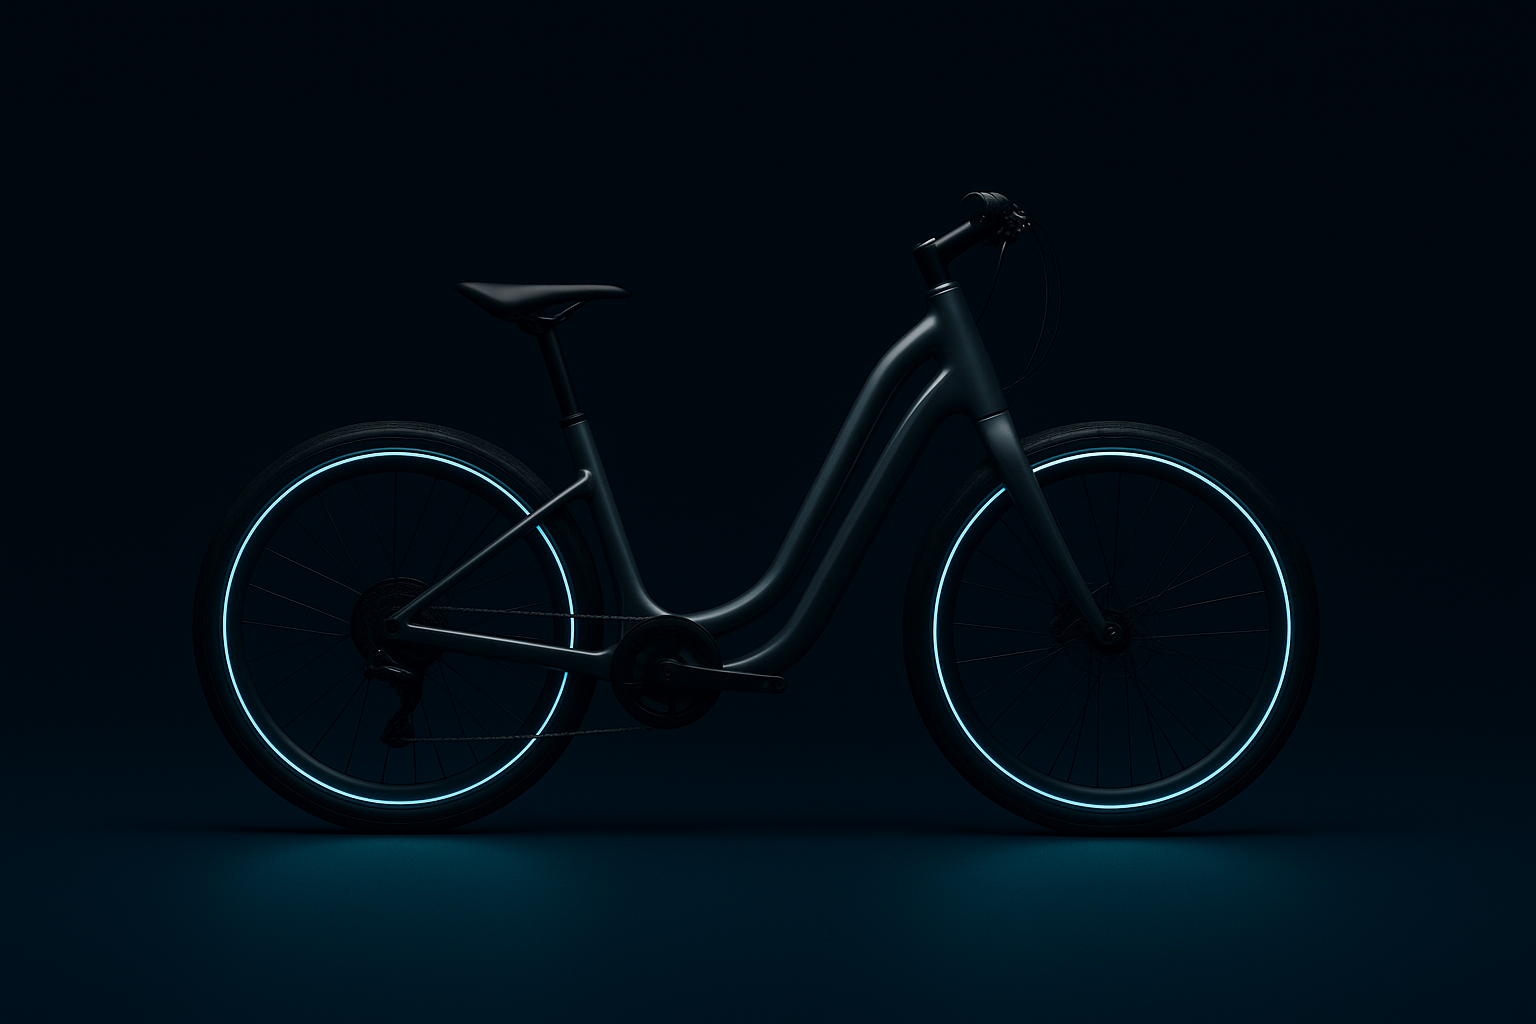
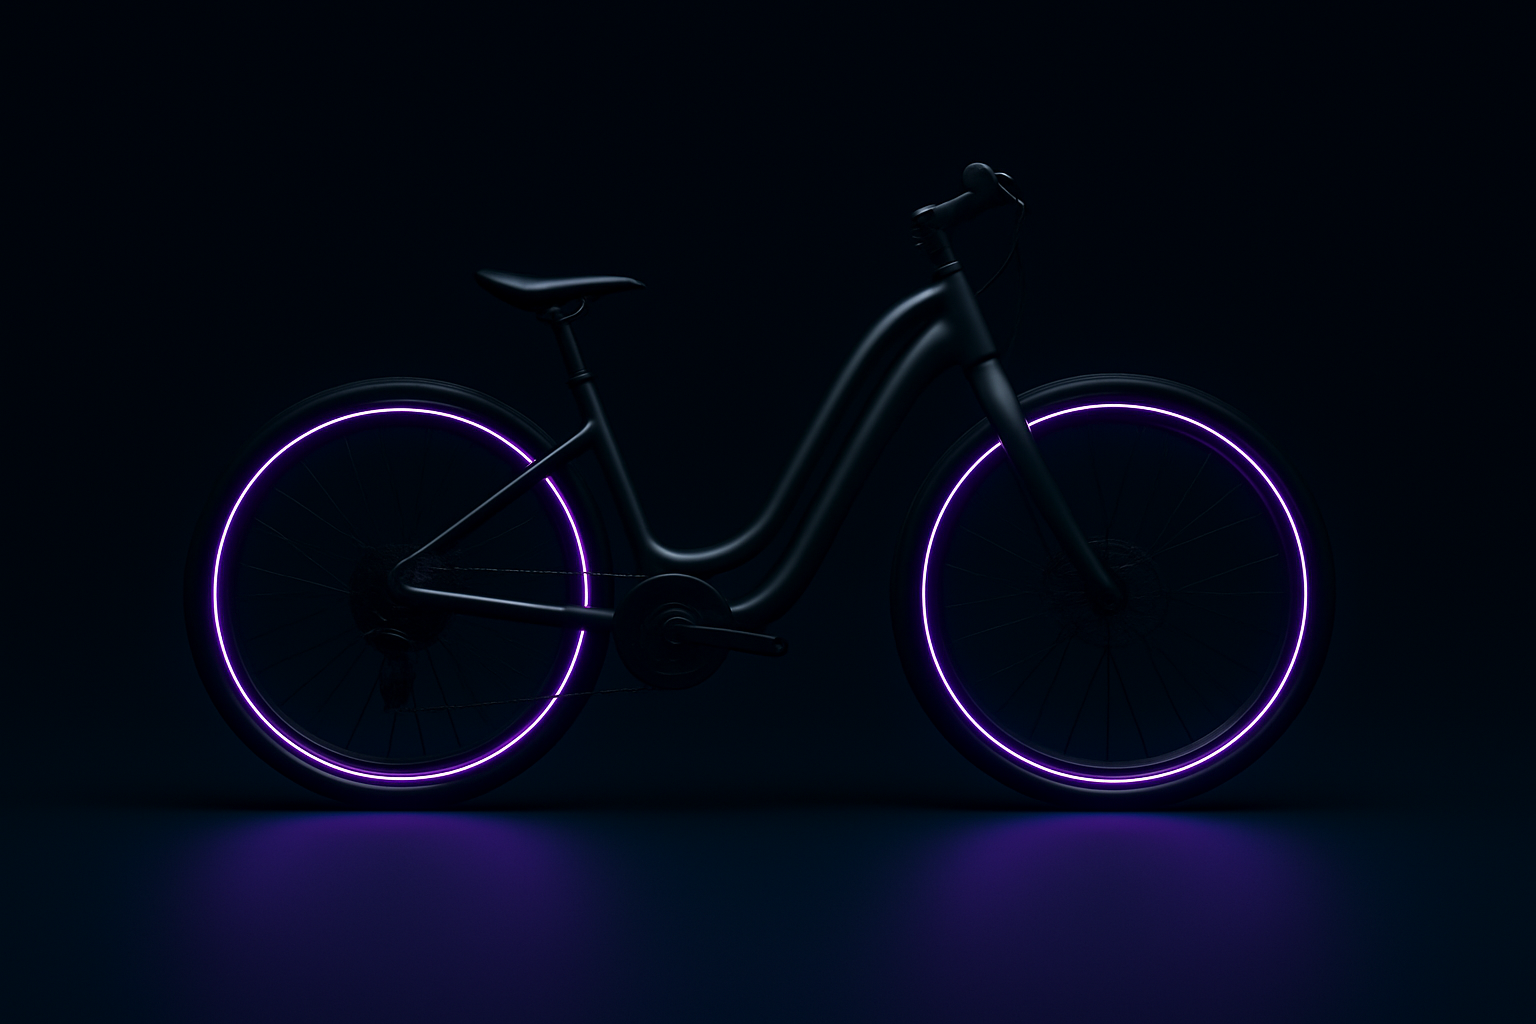
wip

Changed region(s): [[0.125, 0.2812, 0.875, 0.9062], [0.3125, 0.25, 0.4062, 0.3125], [0.5938, 0.1562, 0.6562, 0.25]]

diff --git a/index.html b/index.html
@@ -31,9 +31,9 @@
         <div>
           <span class="display-block margin-bottom underline">CONTACT</span>
           <ul>
-            <li><a href="tel:+15551234567"></a>+1 (555) 123-4567</li>
+            <li><a href="tel:+15551234567">+1 (555) 123-4567</a></li>
             <li>
-              <a href="maito:contact@cyberwheel.com">contact@cyberwheel.com</a>
+              <a href="mailto:contact@cyberwheel.com">contact@cyberwheel.com</a>
             </li>
             <li>1234 Cycle Lane</li>
             <li>New York, NY 10001, USA</li>
@@ -53,12 +53,11 @@
           <span class="display-block margin-bottom underline">SOCIAL</span>
           <ul class="footer__social-media">
             <li>
-              <a href="#"
-                ><svg xmlns="http://www.w3.org/2000/svg" viewBox="0 0 640 640">
-                  <path
-                    d="M320.3 205C256.8 204.8 205.2 256.2 205 319.7C204.8 383.2 256.2 434.8 319.7 435C383.2 435.2 434.8 383.8 435 320.3C435.2 256.8 383.8 205.2 320.3 205zM319.7 245.4C360.9 245.2 394.4 278.5 394.6 319.7C394.8 360.9 361.5 394.4 320.3 394.6C279.1 394.8 245.6 361.5 245.4 320.3C245.2 279.1 278.5 245.6 319.7 245.4zM413.1 200.3C413.1 185.5 425.1 173.5 439.9 173.5C454.7 173.5 466.7 185.5 466.7 200.3C466.7 215.1 454.7 227.1 439.9 227.1C425.1 227.1 413.1 215.1 413.1 200.3zM542.8 227.5C541.1 191.6 532.9 159.8 506.6 133.6C480.4 107.4 448.6 99.2 412.7 97.4C375.7 95.3 264.8 95.3 227.8 97.4C192 99.1 160.2 107.3 133.9 133.5C107.6 159.7 99.5 191.5 97.7 227.4C95.6 264.4 95.6 375.3 97.7 412.3C99.4 448.2 107.6 480 133.9 506.2C160.2 532.4 191.9 540.6 227.8 542.4C264.8 544.5 375.7 544.5 412.7 542.4C448.6 540.7 480.4 532.5 506.6 506.2C532.8 480 541 448.2 542.8 412.3C544.9 375.3 544.9 264.5 542.8 227.5zM495 452C487.2 471.6 472.1 486.7 452.4 494.6C422.9 506.3 352.9 503.6 320.3 503.6C287.7 503.6 217.6 506.2 188.2 494.6C168.6 486.8 153.5 471.7 145.6 452C133.9 422.5 136.6 352.5 136.6 319.9C136.6 287.3 134 217.2 145.6 187.8C153.4 168.2 168.5 153.1 188.2 145.2C217.7 133.5 287.7 136.2 320.3 136.2C352.9 136.2 423 133.6 452.4 145.2C472 153 487.1 168.1 495 187.8C506.7 217.3 504 287.3 504 319.9C504 352.5 506.7 422.6 495 452z"
-                  /></svg
-              ></a>
+              <a href="#">
+                <svg xmlns="http://www.w3.org/2000/svg" viewBox="0 0 640 640">
+                  <path d="M320.3 205C256.8 204.8 205.2 256.2 205 319.7C204.8 383.2 256.2 434.8 319.7 435C383.2 435.2 434.8 383.8 435 320.3C435.2 256.8 383.8 205.2 320.3 205zM319.7 245.4C360.9 245.2 394.4 278.5 394.6 319.7C394.8 360.9 361.5 394.4 320.3 394.6C279.1 394.8 245.6 361.5 245.4 320.3C245.2 279.1 278.5 245.6 319.7 245.4zM413.1 200.3C413.1 185.5 425.1 173.5 439.9 173.5C454.7 173.5 466.7 185.5 466.7 200.3C466.7 215.1 454.7 227.1 439.9 227.1C425.1 227.1 413.1 215.1 413.1 200.3zM542.8 227.5C541.1 191.6 532.9 159.8 506.6 133.6C480.4 107.4 448.6 99.2 412.7 97.4C375.7 95.3 264.8 95.3 227.8 97.4C192 99.1 160.2 107.3 133.9 133.5C107.6 159.7 99.5 191.5 97.7 227.4C95.6 264.4 95.6 375.3 97.7 412.3C99.4 448.2 107.6 480 133.9 506.2C160.2 532.4 191.9 540.6 227.8 542.4C264.8 544.5 375.7 544.5 412.7 542.4C448.6 540.7 480.4 532.5 506.6 506.2C532.8 480 541 448.2 542.8 412.3C544.9 375.3 544.9 264.5 542.8 227.5zM495 452C487.2 471.6 472.1 486.7 452.4 494.6C422.9 506.3 352.9 503.6 320.3 503.6C287.7 503.6 217.6 506.2 188.2 494.6C168.6 486.8 153.5 471.7 145.6 452C133.9 422.5 136.6 352.5 136.6 319.9C136.6 287.3 134 217.2 145.6 187.8C153.4 168.2 168.5 153.1 188.2 145.2C217.7 133.5 287.7 136.2 320.3 136.2C352.9 136.2 423 133.6 452.4 145.2C472 153 487.1 168.1 495 187.8C506.7 217.3 504 287.3 504 319.9C504 352.5 506.7 422.6 495 452z" />
+                </svg>
+              </a>
             </li>
             <li>
               <a href="#"></a

diff --git a/src/css/pages/bike.css b/src/css/pages/bike.css
@@ -3,9 +3,6 @@
   --padding-info-tech: 11px 17px 8px 15px;
 }
 
-.bike__container {
-}
-
 .bike__description {
   margin-bottom: var(--margin);
 }
@@ -13,19 +10,19 @@
 .bike__container__img-info {
   display: grid;
   grid-template-columns: 1fr 1fr;
-  gap: 10px;
+  gap: 15px;
 }
 
 .bike__imgs {
   display: flex;
   flex-direction: column;
-  gap: 10px;;
+  gap: 15px;;
 }
 
 .bike__img-angles {
   display: grid;
   grid-template-columns: 1fr 1fr;
-  gap: 10px;
+  gap: 15px;
 }
 
 .bike__img {
@@ -69,13 +66,14 @@
 .bike__buy-now__wrapper {
   display: flex;
   /* align-items: center; */
-  gap: 10px;
+  gap: 15px;
 }
 
 .bike__method-container {
   display: flex;
   flex-direction: column;
   gap: 5px;
+  margin-block: 6px;
 }
 
 .bike__method {
@@ -90,5 +88,7 @@
 }
 
 @media (max-width: 1022) {
-  
+  .bike__container__img-info {
+  grid-template-columns: 1fr;
+}
 }

diff --git a/src/js/components/template/bike.js b/src/js/components/template/bike.js
@@ -19,7 +19,6 @@ class Bike extends HTMLElement {
     /* html */ 
     this.shadowRoot.innerHTML = `
       <style>${styleImports}</style>
-      <div class="bike__container">
         <section class="line-break bike__description">
           <h1>${titleAttr}</h1>
           <p>${descriptionAttr}</p>
@@ -72,7 +71,6 @@ class Bike extends HTMLElement {
             <wc-button label="BUY NOW"></wc-button>
           </section>
         </div>
-      </div>
     `;
   }
 }

diff --git a/src/css/base/typography.css b/src/css/base/typography.css
@@ -33,7 +33,7 @@ h6 {
   2px 2px 10px var(--slate-5);
   font-family: "Gill Sans", "Gill Sans MT", Calibri, "Trebuchet MS", sans-serif;
   font-family: Impact, Haettenschweiler, 'Arial Narrow Bold', sans-serif;
-  -webkit-text-stroke: 1px var(--slate-4);
+  -webkit-text-stroke: 1px var(--slate-5);
 }
 
 p, span, a, li {
